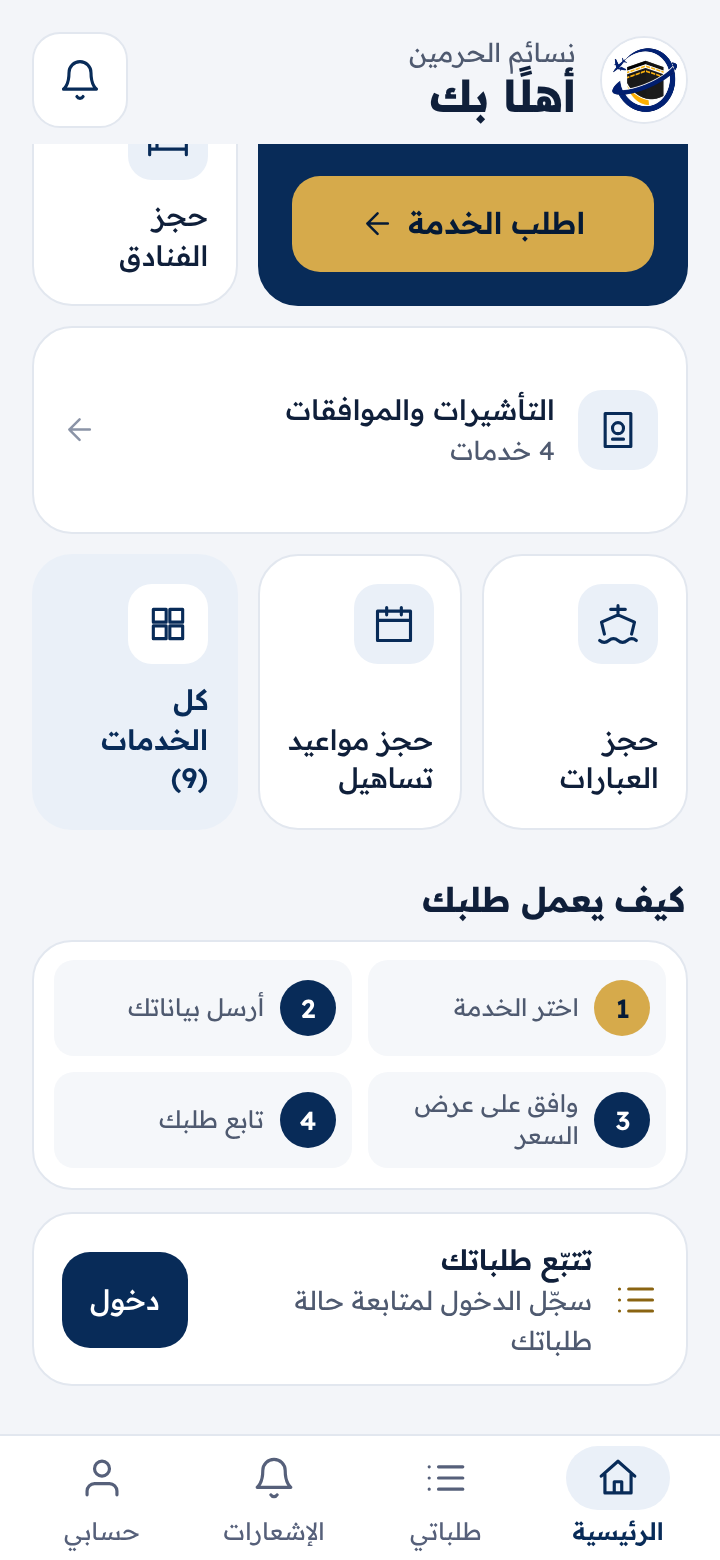
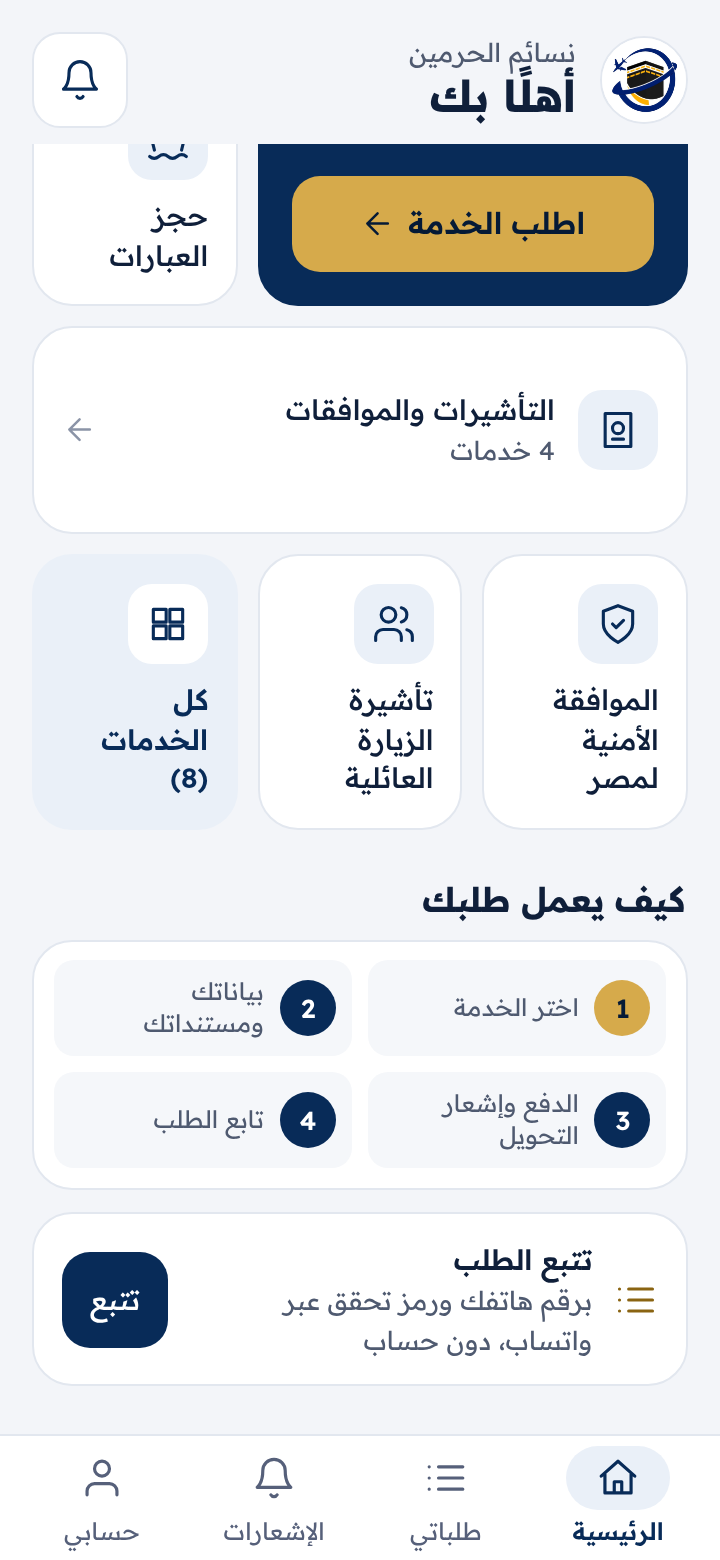
design(mobile): home C corrections — no hotels, real request steps, guest tracking
Prototype only. Hotels removed (postponed); bento is Umrah, flights,
ferries, visas hub, Egypt clearance, family visit and all services with
counts computed from the list. Request steps match the app's real flow
(no price-quote step); the tracking card offers phone + WhatsApp code
tracking without an account.

Claude-Session: https://claude.ai/code/session_01EF61v88GwqaFUaS6TBG3ia

diff --git a/mobile/design-concepts/final.html b/mobile/design-concepts/final.html
@@ -200,6 +200,8 @@ button:focus-visible{outline:2px solid var(--gold-hi);outline-offset:2px}
 // ?zoom=1.3 simulates Android text zoom (review only)
 var z = /zoom=([\d.]+)/.exec(location.search); if (z) document.documentElement.style.fontSize = (16 * +z[1]) + 'px';
 var I = N.icon;
+// Hotels are postponed by agency decision: not offered anywhere in this prototype.
+N.services = N.services.filter(function(s){return s.k!=='hotel'});
 // Fingerprint tap only flips the on-screen text: no sensor, no storage, no auth call.
 document.addEventListener('click',function(e){if(!e.target.closest('[data-sim]'))return;document.getElementById('simstate').textContent='تمت المحاكاة — لم يتم التحقق من أي بصمة';document.getElementById('simgo').hidden=false});
 function medal(){return '<div class="medal"><div class="logo"><img src="assets/logo-mark.png" alt="نسائم الحرمين"></div></div>'}
@@ -222,8 +224,9 @@ N.mount({
     '<p id="simstate" aria-live="polite">اضغط على الأيقونة لتجربة المحاكاة</p>'+
     '<div class="stack"><button class="btn gold" id="simgo" data-go="home" hidden>متابعة إلى الرئيسية (محاكاة)</button>'+
     '<button class="btn soft">'+I('lock')+'الدخول بكلمة المرور</button></div></section>'},
-  // Home — C direction. Bento order = priority: Umrah, flights, hotels, the 4 visa services, ferries, Tasheel, all 9.
-  home:function(){var u=N.svc('umrah');
+  // Home — C direction. Bento order = priority: Umrah, flights, ferries, visas hub, Egypt clearance, family visit, all services.
+  // Counts are computed from the service list (the app computes them from the published catalog).
+  home:function(){var u=N.svc('umrah'), visas=N.inGroup('visa').length, total=N.services.length;
     function bx(k){var s=N.svc(k);return '<button class="bx press in" data-go="services"><span class="bi">'+I(s.i)+'</span>'+s.n+'</button>'}
     return '<div class="h" style="display:contents">'+
     '<header class="h-top in"><div class="logo mk"><img src="assets/logo-mark.png" alt="نسائم الحرمين"></div>'+
@@ -233,14 +236,14 @@ N.mount({
     '<div class="bentobox"><div class="bento">'+
       '<div class="bx top in"><span class="bi">'+I(u.i)+'</span><div><h3>'+u.n+'</h3><p>تأشيرة فقط أو عمرة مع الخدمات</p></div>'+
       '<button class="go press" data-go="services">اطلب الخدمة'+I('fwd')+'</button></div>'+
-      bx('flight')+bx('hotel')+
-      '<button class="bx wide press in" data-go="services"><span class="bi">'+I('passport')+'</span><span class="tx">التأشيرات والموافقات<small>4 خدمات</small></span>'+I('fwd','ar')+'</button>'+
-      bx('ferry')+bx('tasheel')+
-      '<button class="bx all press in" data-go="services"><span class="bi">'+I('grid')+'</span>كل الخدمات (9)</button>'+
+      bx('flight')+bx('ferry')+
+      '<button class="bx wide press in" data-go="services"><span class="bi">'+I('passport')+'</span><span class="tx">التأشيرات والموافقات<small>'+visas+' خدمات</small></span>'+I('fwd','ar')+'</button>'+
+      bx('egypt')+bx('family')+
+      '<button class="bx all press in" data-go="services"><span class="bi">'+I('grid')+'</span>كل الخدمات ('+total+')</button>'+
     '</div></div>'+
     '<div class="h-sec"><h4>كيف يعمل طلبك</h4></div>'+
-    '<div class="stepsbox in"><div class="steps">'+['اختر الخدمة','أرسل بياناتك','وافق على عرض السعر','تابع طلبك'].map(function(s,i){return '<div class="step"><i>'+(i+1)+'</i><span>'+s+'</span></div>'}).join('')+'</div></div>'+
-    '<div class="guest in">'+I('list')+'<div><b>تتبّع طلباتك</b><small>سجّل الدخول لمتابعة حالة طلباتك</small></div><button class="mini press" data-go="welcome">دخول</button></div>'+
+    '<div class="stepsbox in"><div class="steps">'+['اختر الخدمة','بياناتك ومستنداتك','الدفع وإشعار التحويل','تابع الطلب'].map(function(s,i){return '<div class="step"><i>'+(i+1)+'</i><span>'+s+'</span></div>'}).join('')+'</div></div>'+
+    '<div class="guest in">'+I('list')+'<div><b>تتبع الطلب</b><small>برقم هاتفك ورمز تحقق عبر واتساب، دون حساب</small></div><button class="mini press">تتبع</button></div>'+
     '</div>'+
     '<nav class="nav h-nav">'+N.tabs.map(function(t){var on=t.k==='home';return '<button class="press'+(on?' on':'')+'" data-go="home"'+(on?' aria-current="page"':'')+'>'+I(t.i)+t.n+'</button>'}).join('')+'</nav>'+
     '</div>'},
